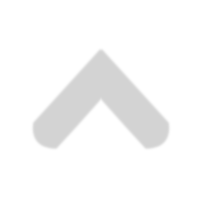
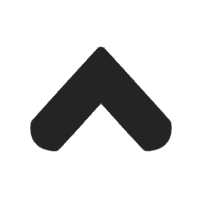
Solution Cleaned
Removed some images not needed. Added new ones to preserve aspect.

Changed region(s): [[0.15, 0.21, 0.87, 0.78]]

diff --git a/WPF_sKrum/BacklogPageLib/BacklogPage.xaml b/WPF_sKrum/BacklogPageLib/BacklogPage.xaml
@@ -10,10 +10,10 @@
       Height="auto">
     <UserControl.Resources>
         <Style x:Key="RectangleStyle1" TargetType="{x:Type Rectangle}">
-        	<Setter Property="Fill" Value="{DynamicResource Gray4Brush}"/>
+            <Setter Property="Fill" Value="{DynamicResource BackgroundBrush}"/>
             <Style.Triggers>
                 <Trigger Property="IsMouseOver" Value="True">
-                    <Setter Property="Fill" Value="{DynamicResource Gray5Brush}"/>
+                    <Setter Property="Fill" Value="{DynamicResource Gray4Brush}"/>
                 </Trigger>
             </Style.Triggers>
         </Style>
@@ -33,47 +33,47 @@
         <SolidColorBrush x:Key="Gray7Brush" Color="#242424" />
     </UserControl.Resources>
 
-	<Grid x:Name="GoodArea" Margin="0" Background="{StaticResource BackgroundBrush}">
-		<Grid.ColumnDefinitions>
-			<ColumnDefinition Width="1*" />
-			<ColumnDefinition Width="80" />
-		</Grid.ColumnDefinitions>
-		<Grid x:Name="ScrollButtons" Grid.Column="1" Margin="0" Background="{StaticResource Gray4Brush}">
-			<Grid.RowDefinitions>
-				<RowDefinition Height="50*" />
-				<RowDefinition Height="50*" />
-			</Grid.RowDefinitions>
-			<Rectangle x:Name="ScrollUpButton" Margin="0" StrokeThickness="2" MouseEnter="ScrollUp_Start" MouseLeave="ScrollUp_Cancel" Style="{DynamicResource RectangleStyle1}"/>
-			<Rectangle x:Name="ScrollDownButton" Style="{DynamicResource RectangleStyle1}" Margin="0" Grid.Row="1" StrokeThickness="2" MouseEnter="ScrollDown_Start" MouseLeave="ScrollDown_Cancel"/>
-			<Image Grid.Row="0" HorizontalAlignment="Center" Height="100" VerticalAlignment="Center" Width="80" Focusable="True" Source="Images/arrow.png" IsHitTestVisible="False"/>
-			<Image Grid.Row="1" HorizontalAlignment="Center" Height="100" VerticalAlignment="Center" Width="80" Focusable="True" Source="Images/arrow.png" IsHitTestVisible="False" Margin="0,100" RenderTransformOrigin="0.5,0.5">
-				<Image.RenderTransform>
-					<TransformGroup>
-						<ScaleTransform/>
-						<SkewTransform/>
-						<RotateTransform Angle="-180"/>
-						<TranslateTransform/>
-					</TransformGroup>
-				</Image.RenderTransform>
-			</Image>
-		</Grid>
-		<Grid x:Name="Big_Area" Margin="0">
-			<Grid.ColumnDefinitions>
-				<ColumnDefinition Width="10*"/>
-				<ColumnDefinition Width="90*"/>
-			</Grid.ColumnDefinitions>
-			<ScrollViewer x:Name="BacklogScroll" Margin="20,0" VerticalScrollBarVisibility="Hidden" Grid.Column="1" Background="Transparent">
-				<ListView x:Name="Backlog" Width="Auto" VirtualizingStackPanel.IsVirtualizing="True" HorizontalContentAlignment="Stretch" Height="Auto" AllowDrop="False" BorderBrush="Transparent" Background="Transparent" BorderThickness="0" Foreground="Transparent" ScrollViewer.HorizontalScrollBarVisibility="Disabled" ScrollViewer.VerticalScrollBarVisibility="Disabled" >
-					<ListView.ItemContainerStyle>
-						<Style TargetType="{x:Type ListViewItem}">
-							<Setter Property="BorderThickness" Value="0"/>
-							<Setter Property="Margin" Value="0,3,0,3"/>
-							<Setter Property="Padding" Value="0"/>
-						</Style>
-					</ListView.ItemContainerStyle>
-				</ListView>
-			</ScrollViewer>
+    <Grid x:Name="GoodArea" Margin="0" Background="{StaticResource BackgroundBrush}">
+        <Grid.ColumnDefinitions>
+            <ColumnDefinition Width="1*" />
+            <ColumnDefinition Width="80" />
+        </Grid.ColumnDefinitions>
+        <Grid x:Name="ScrollButtons" Grid.Column="1" Margin="0" Background="{StaticResource Gray4Brush}">
+            <Grid.RowDefinitions>
+                <RowDefinition Height="50*" />
+                <RowDefinition Height="50*" />
+            </Grid.RowDefinitions>
+            <Rectangle x:Name="ScrollUpButton" Margin="0" StrokeThickness="2" MouseEnter="ScrollUp_Start" MouseLeave="ScrollUp_Cancel" Style="{DynamicResource RectangleStyle1}"/>
+            <Rectangle x:Name="ScrollDownButton" Style="{DynamicResource RectangleStyle1}" Margin="0" Grid.Row="1" StrokeThickness="2" MouseEnter="ScrollDown_Start" MouseLeave="ScrollDown_Cancel"/>
+            <Image Grid.Row="0" HorizontalAlignment="Center" Height="100" VerticalAlignment="Center" Width="80" Focusable="True" Source="Images/arrow.png" IsHitTestVisible="False"/>
+            <Image Grid.Row="1" HorizontalAlignment="Center" Height="100" VerticalAlignment="Center" Width="80" Focusable="True" Source="Images/arrow.png" IsHitTestVisible="False" Margin="0,100" RenderTransformOrigin="0.5,0.5">
+                <Image.RenderTransform>
+                    <TransformGroup>
+                        <ScaleTransform/>
+                        <SkewTransform/>
+                        <RotateTransform Angle="-180"/>
+                        <TranslateTransform/>
+                    </TransformGroup>
+                </Image.RenderTransform>
+            </Image>
+        </Grid>
+        <Grid x:Name="Big_Area" Margin="0">
+            <Grid.ColumnDefinitions>
+                <ColumnDefinition Width="100"/>
+                <ColumnDefinition/>
+            </Grid.ColumnDefinitions>
+            <ScrollViewer x:Name="BacklogScroll" Margin="20,0" VerticalScrollBarVisibility="Hidden" Grid.Column="1" Background="Transparent">
+                <ListView x:Name="Backlog" Width="Auto" VirtualizingStackPanel.IsVirtualizing="True" HorizontalContentAlignment="Stretch" Height="Auto" AllowDrop="False" BorderBrush="Transparent" Background="Transparent" BorderThickness="0" Foreground="Transparent" ScrollViewer.HorizontalScrollBarVisibility="Disabled" ScrollViewer.VerticalScrollBarVisibility="Disabled" >
+                    <ListView.ItemContainerStyle>
+                        <Style TargetType="{x:Type ListViewItem}">
+                            <Setter Property="BorderThickness" Value="0"/>
+                            <Setter Property="Margin" Value="0,3,0,3"/>
+                            <Setter Property="Padding" Value="0"/>
+                        </Style>
+                    </ListView.ItemContainerStyle>
+                </ListView>
+            </ScrollViewer>
             <GenericControlLib:SideMenuControl FirstType="Add" SecondType="Edit" ThirdType="Remove" FirstVisibility="Visible" SecondVisibility="Visible" ThirdVisibility="Visible" HorizontalAlignment="Center" VerticalAlignment="Center" />
         </Grid>
-	</Grid>
+    </Grid>
 </UserControl>

diff --git a/WPF_sKrum/PeopleManagementPageLib/PeopleManagementPage.xaml b/WPF_sKrum/PeopleManagementPageLib/PeopleManagementPage.xaml
@@ -40,7 +40,7 @@
 
                 <Rectangle x:Name="UpperPanLeftScroller" Style="{DynamicResource RectangleStyle1}" Grid.Column="1" Height="auto" Margin="0" Width="auto" MouseEnter="ScrollLeft_Start" MouseLeave="ScrollLeft_Cancel"/>
 
-                <Image x:Name="UpperPanLeft" Focusable="True" IsHitTestVisible="False" Margin="10" Grid.Column="1" HorizontalAlignment="Right" VerticalAlignment="Center" Source="Images/darkarrow.png" RenderTransformOrigin="0.5,0.5" Panel.ZIndex="10" >
+                <Image x:Name="UpperPanLeft" Focusable="True" IsHitTestVisible="False" Margin="10" Grid.Column="1" HorizontalAlignment="Right" VerticalAlignment="Center" Source="Images/arrow.png" RenderTransformOrigin="0.5,0.5" Panel.ZIndex="10" >
                     <Image.RenderTransform>
                         <TransformGroup>
                             <ScaleTransform/>
@@ -54,7 +54,7 @@
                     <StackPanel x:Name="Letters" Orientation="Horizontal" Height="Auto" Width="Auto" Margin="0"/>
                 </ScrollViewer>
                 <Rectangle x:Name="UpperPanRightScroller" Style="{DynamicResource RectangleStyle1}" Grid.Column="3" Height="auto" Margin="0" Width="auto" MouseEnter="ScrollRight_Start" MouseLeave="ScrollRight_Cancel"/>
-                <Image x:Name="UpperPanRight" Focusable="True" IsHitTestVisible="False" Margin="10" Grid.Column="3" HorizontalAlignment="Left" VerticalAlignment="Center" Source="Images/darkarrow.png" RenderTransformOrigin="0.5,0.5" Panel.ZIndex="10" >
+                <Image x:Name="UpperPanRight" Focusable="True" IsHitTestVisible="False" Margin="10" Grid.Column="3" HorizontalAlignment="Left" VerticalAlignment="Center" Source="Images/arrow.png" RenderTransformOrigin="0.5,0.5" Panel.ZIndex="10" >
                     <Image.RenderTransform>
                         <TransformGroup>
                             <ScaleTransform/>
@@ -75,7 +75,7 @@
                     <ColumnDefinition Width="5*"/>
                 </Grid.ColumnDefinitions>
 
-                <Image x:Name="PanLeft" Focusable="True" IsHitTestVisible="False" Margin="10" Grid.Column="1" HorizontalAlignment="Right" VerticalAlignment="Center" Source="Images/darkarrow.png" RenderTransformOrigin="0.5,0.5" Panel.ZIndex="10" >
+                <Image x:Name="PanLeft" Focusable="True" IsHitTestVisible="False" Margin="10" Grid.Column="1" HorizontalAlignment="Right" VerticalAlignment="Center" Source="Images/arrow.png" RenderTransformOrigin="0.5,0.5" Panel.ZIndex="10" >
                     <Image.RenderTransform>
                         <TransformGroup>
                             <ScaleTransform/>
@@ -100,7 +100,7 @@
                         </Grid>
                     </StackPanel>
                 </ScrollViewer>
-                <Image x:Name="PanRight" Focusable="True" IsHitTestVisible="False" Margin="10" Grid.Column="3" HorizontalAlignment="Left" VerticalAlignment="Center" Source="Images/darkarrow.png" RenderTransformOrigin="0.5,0.5" Panel.ZIndex="10" >
+                <Image x:Name="PanRight" Focusable="True" IsHitTestVisible="False" Margin="10" Grid.Column="3" HorizontalAlignment="Left" VerticalAlignment="Center" Source="Images/arrow.png" RenderTransformOrigin="0.5,0.5" Panel.ZIndex="10" >
                     <Image.RenderTransform>
                         <TransformGroup>
                             <ScaleTransform/>

diff --git a/WPF_sKrum/PopupSelectionControlLib/ProjectSelectionPage.xaml b/WPF_sKrum/PopupSelectionControlLib/ProjectSelectionPage.xaml
@@ -34,7 +34,7 @@
 
                 <Rectangle x:Name="UpperPanLeftScroller" Style="{DynamicResource RectangleStyle1}" Grid.Column="1" Height="auto" Margin="0" Width="auto" MouseEnter="ScrollLeft_Start" MouseLeave="ScrollLeft_Cancel"/>
 
-                <Image x:Name="UpperPanLeft" Focusable="True" IsHitTestVisible="False" Margin="10" Grid.Column="1" HorizontalAlignment="Right" VerticalAlignment="Center" Source="Images/darkarrow.png" RenderTransformOrigin="0.5,0.5" Panel.ZIndex="10" >
+                <Image x:Name="UpperPanLeft" Focusable="True" IsHitTestVisible="False" Margin="10" Grid.Column="1" HorizontalAlignment="Right" VerticalAlignment="Center" Source="Images/arrow.png" RenderTransformOrigin="0.5,0.5" Panel.ZIndex="10" >
                     <Image.RenderTransform>
                         <TransformGroup>
                             <ScaleTransform/>
@@ -48,7 +48,7 @@
                     <StackPanel x:Name="Letters" Orientation="Horizontal" Height="Auto" Width="Auto" Margin="0"/>
                 </ScrollViewer>
                 <Rectangle x:Name="UpperPanRightScroller" Style="{DynamicResource RectangleStyle1}" Grid.Column="3" Height="auto" Margin="0" Width="auto" MouseEnter="ScrollRight_Start" MouseLeave="ScrollRight_Cancel"/>
-                <Image x:Name="UpperPanRight" Focusable="True" IsHitTestVisible="False" Margin="10" Grid.Column="3" HorizontalAlignment="Left" VerticalAlignment="Center" Source="Images/darkarrow.png" RenderTransformOrigin="0.5,0.5" Panel.ZIndex="10" >
+                <Image x:Name="UpperPanRight" Focusable="True" IsHitTestVisible="False" Margin="10" Grid.Column="3" HorizontalAlignment="Left" VerticalAlignment="Center" Source="Images/arrow.png" RenderTransformOrigin="0.5,0.5" Panel.ZIndex="10" >
                     <Image.RenderTransform>
                         <TransformGroup>
                             <ScaleTransform/>
@@ -69,7 +69,7 @@
                     <ColumnDefinition Width="5*"/>
                 </Grid.ColumnDefinitions>
 
-                <Image x:Name="PanLeft" Focusable="True" IsHitTestVisible="False" Margin="10" Grid.Column="1" HorizontalAlignment="Right" VerticalAlignment="Center" Source="Images/darkarrow.png" RenderTransformOrigin="0.5,0.5" Panel.ZIndex="10" >
+                <Image x:Name="PanLeft" Focusable="True" IsHitTestVisible="False" Margin="10" Grid.Column="1" HorizontalAlignment="Right" VerticalAlignment="Center" Source="Images/arrow.png" RenderTransformOrigin="0.5,0.5" Panel.ZIndex="10" >
                     <Image.RenderTransform>
                         <TransformGroup>
                             <ScaleTransform/>
@@ -93,7 +93,7 @@
                         </Grid>
                     </StackPanel>
                 </ScrollViewer>
-                <Image x:Name="PanRight" Focusable="True" IsHitTestVisible="False" Margin="10" Grid.Column="3" HorizontalAlignment="Left" VerticalAlignment="Center" Source="Images/darkarrow.png" RenderTransformOrigin="0.5,0.5" Panel.ZIndex="10" >
+                <Image x:Name="PanRight" Focusable="True" IsHitTestVisible="False" Margin="10" Grid.Column="3" HorizontalAlignment="Left" VerticalAlignment="Center" Source="Images/arrow.png" RenderTransformOrigin="0.5,0.5" Panel.ZIndex="10" >
                     <Image.RenderTransform>
                         <TransformGroup>
                             <ScaleTransform/>

diff --git a/WPF_sKrum/PopupSelectionControlLib/UserSelectionPage.xaml b/WPF_sKrum/PopupSelectionControlLib/UserSelectionPage.xaml
@@ -34,7 +34,7 @@
 
                 <Rectangle x:Name="UpperPanLeftScroller" Style="{DynamicResource RectangleStyle1}" Grid.Column="1" Height="auto" Margin="0" Width="auto" MouseEnter="ScrollLeft_Start" MouseLeave="ScrollLeft_Cancel"/>
 
-                <Image x:Name="UpperPanLeft" Focusable="True" IsHitTestVisible="False" Margin="10" Grid.Column="1" HorizontalAlignment="Right" VerticalAlignment="Center" Source="Images/darkarrow.png" RenderTransformOrigin="0.5,0.5" Panel.ZIndex="10" >
+                <Image x:Name="UpperPanLeft" Focusable="True" IsHitTestVisible="False" Margin="10" Grid.Column="1" HorizontalAlignment="Right" VerticalAlignment="Center" Source="Images/arrow.png" RenderTransformOrigin="0.5,0.5" Panel.ZIndex="10" >
                     <Image.RenderTransform>
                         <TransformGroup>
                             <ScaleTransform/>
@@ -48,7 +48,7 @@
                     <StackPanel x:Name="Letters" Orientation="Horizontal" Height="Auto" Width="Auto" Margin="0"/>
                 </ScrollViewer>
                 <Rectangle x:Name="UpperPanRightScroller" Style="{DynamicResource RectangleStyle1}" Grid.Column="3" Height="auto" Margin="0" Width="auto" MouseEnter="ScrollRight_Start" MouseLeave="ScrollRight_Cancel"/>
-                <Image x:Name="UpperPanRight" Focusable="True" IsHitTestVisible="False" Margin="10" Grid.Column="3" HorizontalAlignment="Left" VerticalAlignment="Center" Source="Images/darkarrow.png" RenderTransformOrigin="0.5,0.5" Panel.ZIndex="10" >
+                <Image x:Name="UpperPanRight" Focusable="True" IsHitTestVisible="False" Margin="10" Grid.Column="3" HorizontalAlignment="Left" VerticalAlignment="Center" Source="Images/arrow.png" RenderTransformOrigin="0.5,0.5" Panel.ZIndex="10" >
                     <Image.RenderTransform>
                         <TransformGroup>
                             <ScaleTransform/>
@@ -69,7 +69,7 @@
                     <ColumnDefinition Width="5*"/>
                 </Grid.ColumnDefinitions>
 
-                <Image x:Name="PanLeft" Focusable="True" IsHitTestVisible="False" Margin="10" Grid.Column="1" HorizontalAlignment="Right" VerticalAlignment="Center" Source="Images/darkarrow.png" RenderTransformOrigin="0.5,0.5" Panel.ZIndex="10" >
+                <Image x:Name="PanLeft" Focusable="True" IsHitTestVisible="False" Margin="10" Grid.Column="1" HorizontalAlignment="Right" VerticalAlignment="Center" Source="Images/arrow.png" RenderTransformOrigin="0.5,0.5" Panel.ZIndex="10" >
                     <Image.RenderTransform>
                         <TransformGroup>
                             <ScaleTransform/>
@@ -93,7 +93,7 @@
                         </Grid>
                     </StackPanel>
                 </ScrollViewer>
-                <Image x:Name="PanRight" Focusable="True" IsHitTestVisible="False" Margin="10" Grid.Column="3" HorizontalAlignment="Left" VerticalAlignment="Center" Source="Images/darkarrow.png" RenderTransformOrigin="0.5,0.5" Panel.ZIndex="10" >
+                <Image x:Name="PanRight" Focusable="True" IsHitTestVisible="False" Margin="10" Grid.Column="3" HorizontalAlignment="Left" VerticalAlignment="Center" Source="Images/arrow.png" RenderTransformOrigin="0.5,0.5" Panel.ZIndex="10" >
                     <Image.RenderTransform>
                         <TransformGroup>
                             <ScaleTransform/>

diff --git a/WPF_sKrum/ProjectManagementPageLib/ProjectManagementPage.xaml b/WPF_sKrum/ProjectManagementPageLib/ProjectManagementPage.xaml
@@ -40,7 +40,7 @@
 
 				<Rectangle x:Name="UpperPanLeftScroller" Style="{DynamicResource RectangleStyle1}" Grid.Column="1" Height="auto" Margin="0" Width="auto" MouseEnter="ScrollLeft_Start" MouseLeave="ScrollLeft_Cancel"/>
 
-				<Image x:Name="UpperPanLeft" Focusable="True" IsHitTestVisible="False" Margin="10" Grid.Column="1" HorizontalAlignment="Right" VerticalAlignment="Center" Source="Images/darkarrow.png" RenderTransformOrigin="0.5,0.5" Panel.ZIndex="10" >
+				<Image x:Name="UpperPanLeft" Focusable="True" IsHitTestVisible="False" Margin="10" Grid.Column="1" HorizontalAlignment="Right" VerticalAlignment="Center" Source="Images/arrow.png" RenderTransformOrigin="0.5,0.5" Panel.ZIndex="10" >
 					<Image.RenderTransform>
 						<TransformGroup>
 							<ScaleTransform/>
@@ -54,7 +54,7 @@
 					<StackPanel x:Name="Letters" Orientation="Horizontal" Height="Auto" Width="Auto" Margin="0"/>
 				</ScrollViewer>
 				<Rectangle x:Name="UpperPanRightScroller" Style="{DynamicResource RectangleStyle1}" Grid.Column="3" Height="auto" Margin="0" Width="auto" MouseEnter="ScrollRight_Start" MouseLeave="ScrollRight_Cancel"/>
-				<Image x:Name="UpperPanRight" Focusable="True" IsHitTestVisible="False" Margin="10" Grid.Column="3" HorizontalAlignment="Left" VerticalAlignment="Center" Source="Images/darkarrow.png" RenderTransformOrigin="0.5,0.5" Panel.ZIndex="10" >
+				<Image x:Name="UpperPanRight" Focusable="True" IsHitTestVisible="False" Margin="10" Grid.Column="3" HorizontalAlignment="Left" VerticalAlignment="Center" Source="Images/arrow.png" RenderTransformOrigin="0.5,0.5" Panel.ZIndex="10" >
 					<Image.RenderTransform>
 						<TransformGroup>
 							<ScaleTransform/>
@@ -75,7 +75,7 @@
 					<ColumnDefinition Width="5*"/>
 				</Grid.ColumnDefinitions>
 
-				<Image x:Name="PanLeft" Focusable="True" IsHitTestVisible="False" Margin="10" Grid.Column="1" HorizontalAlignment="Right" VerticalAlignment="Center" Source="Images/darkarrow.png" RenderTransformOrigin="0.5,0.5" Panel.ZIndex="10" >
+				<Image x:Name="PanLeft" Focusable="True" IsHitTestVisible="False" Margin="10" Grid.Column="1" HorizontalAlignment="Right" VerticalAlignment="Center" Source="Images/arrow.png" RenderTransformOrigin="0.5,0.5" Panel.ZIndex="10" >
 					<Image.RenderTransform>
 						<TransformGroup>
 							<ScaleTransform/>
@@ -100,7 +100,7 @@
 						</Grid>
 					</StackPanel>
 				</ScrollViewer>
-				<Image x:Name="PanRight" Focusable="True" IsHitTestVisible="False" Margin="10" Grid.Column="3" HorizontalAlignment="Left" VerticalAlignment="Center" Source="Images/darkarrow.png" RenderTransformOrigin="0.5,0.5" Panel.ZIndex="10" >
+				<Image x:Name="PanRight" Focusable="True" IsHitTestVisible="False" Margin="10" Grid.Column="3" HorizontalAlignment="Left" VerticalAlignment="Center" Source="Images/arrow.png" RenderTransformOrigin="0.5,0.5" Panel.ZIndex="10" >
 					<Image.RenderTransform>
 						<TransformGroup>
 							<ScaleTransform/>

diff --git a/WPF_sKrum/ProjectTeamManagementPageLib/ProjectTeamManagementPage.xaml b/WPF_sKrum/ProjectTeamManagementPageLib/ProjectTeamManagementPage.xaml
@@ -35,8 +35,8 @@
     </UserControl.Resources>
     <Grid x:Name="GoodArea" Margin="0" Background="{StaticResource BackgroundBrush}">
         <Grid.ColumnDefinitions>
-            <ColumnDefinition Width="85*"/>
-            <ColumnDefinition Width="15*"/>
+            <ColumnDefinition Width="1*"/>
+            <ColumnDefinition Width="100"/>
         </Grid.ColumnDefinitions>
         <Grid>
 
@@ -54,7 +54,7 @@
                         <ColumnDefinition Width="5*"/>
                     </Grid.ColumnDefinitions>
 
-                    <Image x:Name="PanLeft" Focusable="True" IsHitTestVisible="False" Margin="10" Grid.Column="1" HorizontalAlignment="Right" VerticalAlignment="Center" Source="Images/darkarrow.png" RenderTransformOrigin="0.5,0.5" Panel.ZIndex="10" >
+                    <Image x:Name="PanLeft" Focusable="True" IsHitTestVisible="False" Margin="10" Grid.Column="1" HorizontalAlignment="Right" VerticalAlignment="Center" Source="Images/arrow.png" RenderTransformOrigin="0.5,0.5" Panel.ZIndex="10" >
                         <Image.RenderTransform>
                             <TransformGroup>
                                 <ScaleTransform/>
@@ -79,7 +79,7 @@
                             </Grid>
                         </StackPanel>
                     </ScrollViewer>
-                    <Image x:Name="PanRight" Focusable="True" IsHitTestVisible="False" Margin="10" Grid.Column="3" HorizontalAlignment="Left" VerticalAlignment="Center" Source="Images/darkarrow.png" RenderTransformOrigin="0.5,0.5" Panel.ZIndex="10" >
+                    <Image x:Name="PanRight" Focusable="True" IsHitTestVisible="False" Margin="10" Grid.Column="3" HorizontalAlignment="Left" VerticalAlignment="Center" Source="Images/arrow.png" RenderTransformOrigin="0.5,0.5" Panel.ZIndex="10" >
                         <Image.RenderTransform>
                             <TransformGroup>
                                 <ScaleTransform/>

diff --git a/WPF_sKrum/TaskBoardPageLib/TaskBoardPage.xaml b/WPF_sKrum/TaskBoardPageLib/TaskBoardPage.xaml
@@ -9,14 +9,14 @@
       Width="auto"
       Height="auto">
 	<UserControl.Resources>
-		<Style x:Key="RectangleStyle1" TargetType="{x:Type Rectangle}">
-			<Style.Triggers>
-				<Trigger Property="IsMouseOver" Value="True">
-					<Setter Property="Fill" Value="{DynamicResource Gray5Brush}"/>
-				</Trigger>
-			</Style.Triggers>
-			<Setter Property="Fill" Value="{DynamicResource Gray4Brush}"/>
-		</Style>
+        <Style x:Key="RectangleStyle1" TargetType="{x:Type Rectangle}">
+            <Setter Property="Fill" Value="{DynamicResource BackgroundBrush}"/>
+            <Style.Triggers>
+                <Trigger Property="IsMouseOver" Value="True">
+                    <Setter Property="Fill" Value="{DynamicResource Gray4Brush}"/>
+                </Trigger>
+            </Style.Triggers>
+        </Style>
         <SolidColorBrush x:Key="BackgroundBrush" Color="#E2E2E2" />
         <SolidColorBrush x:Key="KinectOnBarBrush" Color="#242424" />
         <SolidColorBrush x:Key="KinectOffBarBrush" Color="#555555" />
